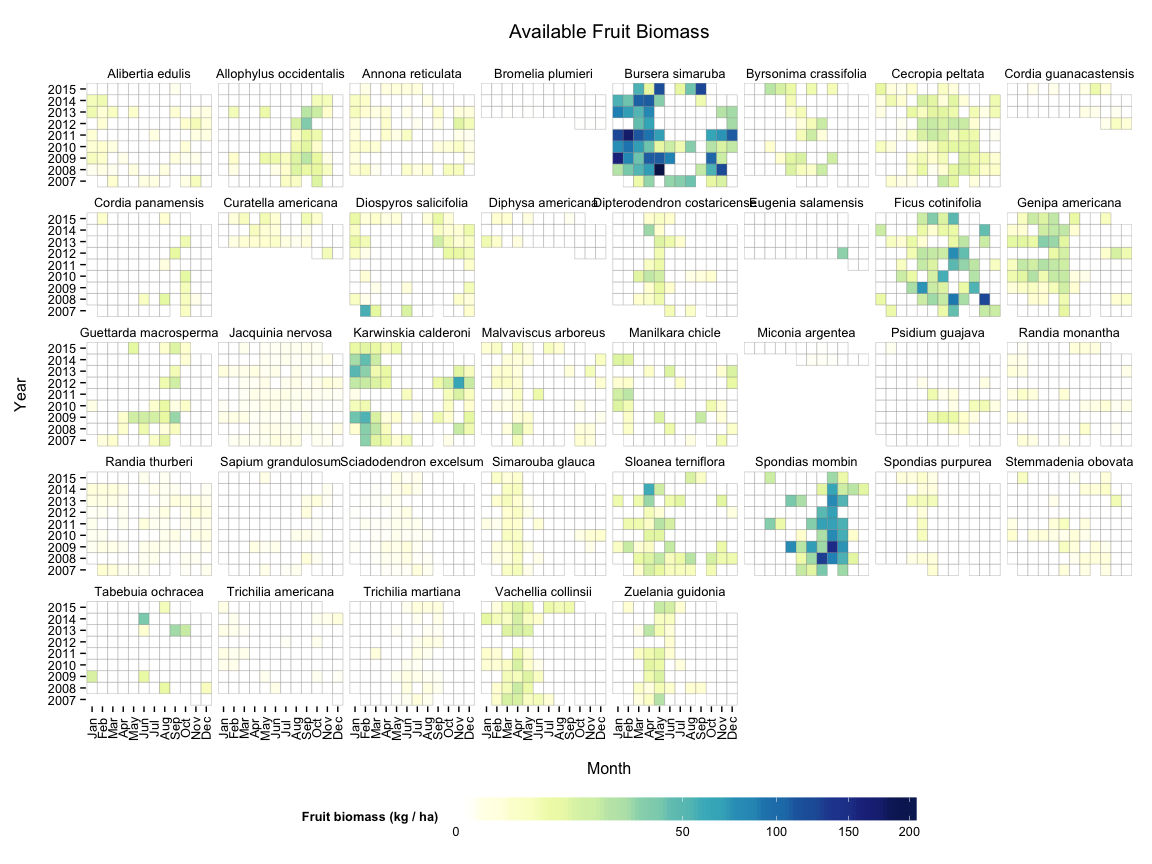
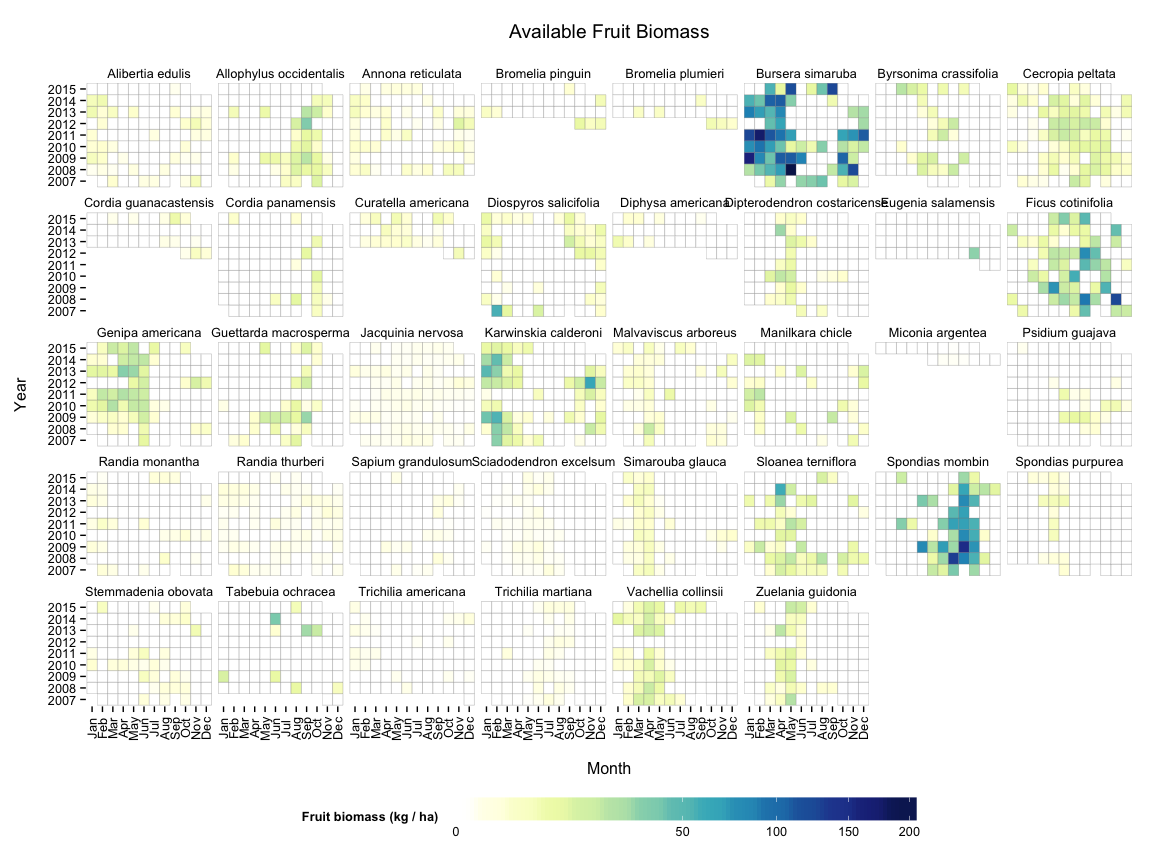
Update to biomass vignette after Urs corrected small error

diff --git a/BiomassSR.md b/BiomassSR.md
@@ -65,8 +65,8 @@ We can look at some of the values...
 
 ``` r
 biomass_avail_raw %>% select(SpeciesName, year_of, month_of, biomass_monthly_kg)
-#> Source: local data frame [3,398 x 4]
-#> Groups: SpeciesName, year_of [301]
+#> Source: local data frame [3,435 x 4]
+#> Groups: SpeciesName, year_of [305]
 #> 
 #>         SpeciesName year_of month_of biomass_monthly_kg
 #>               (chr)  (fctr)   (fctr)              (dbl)
